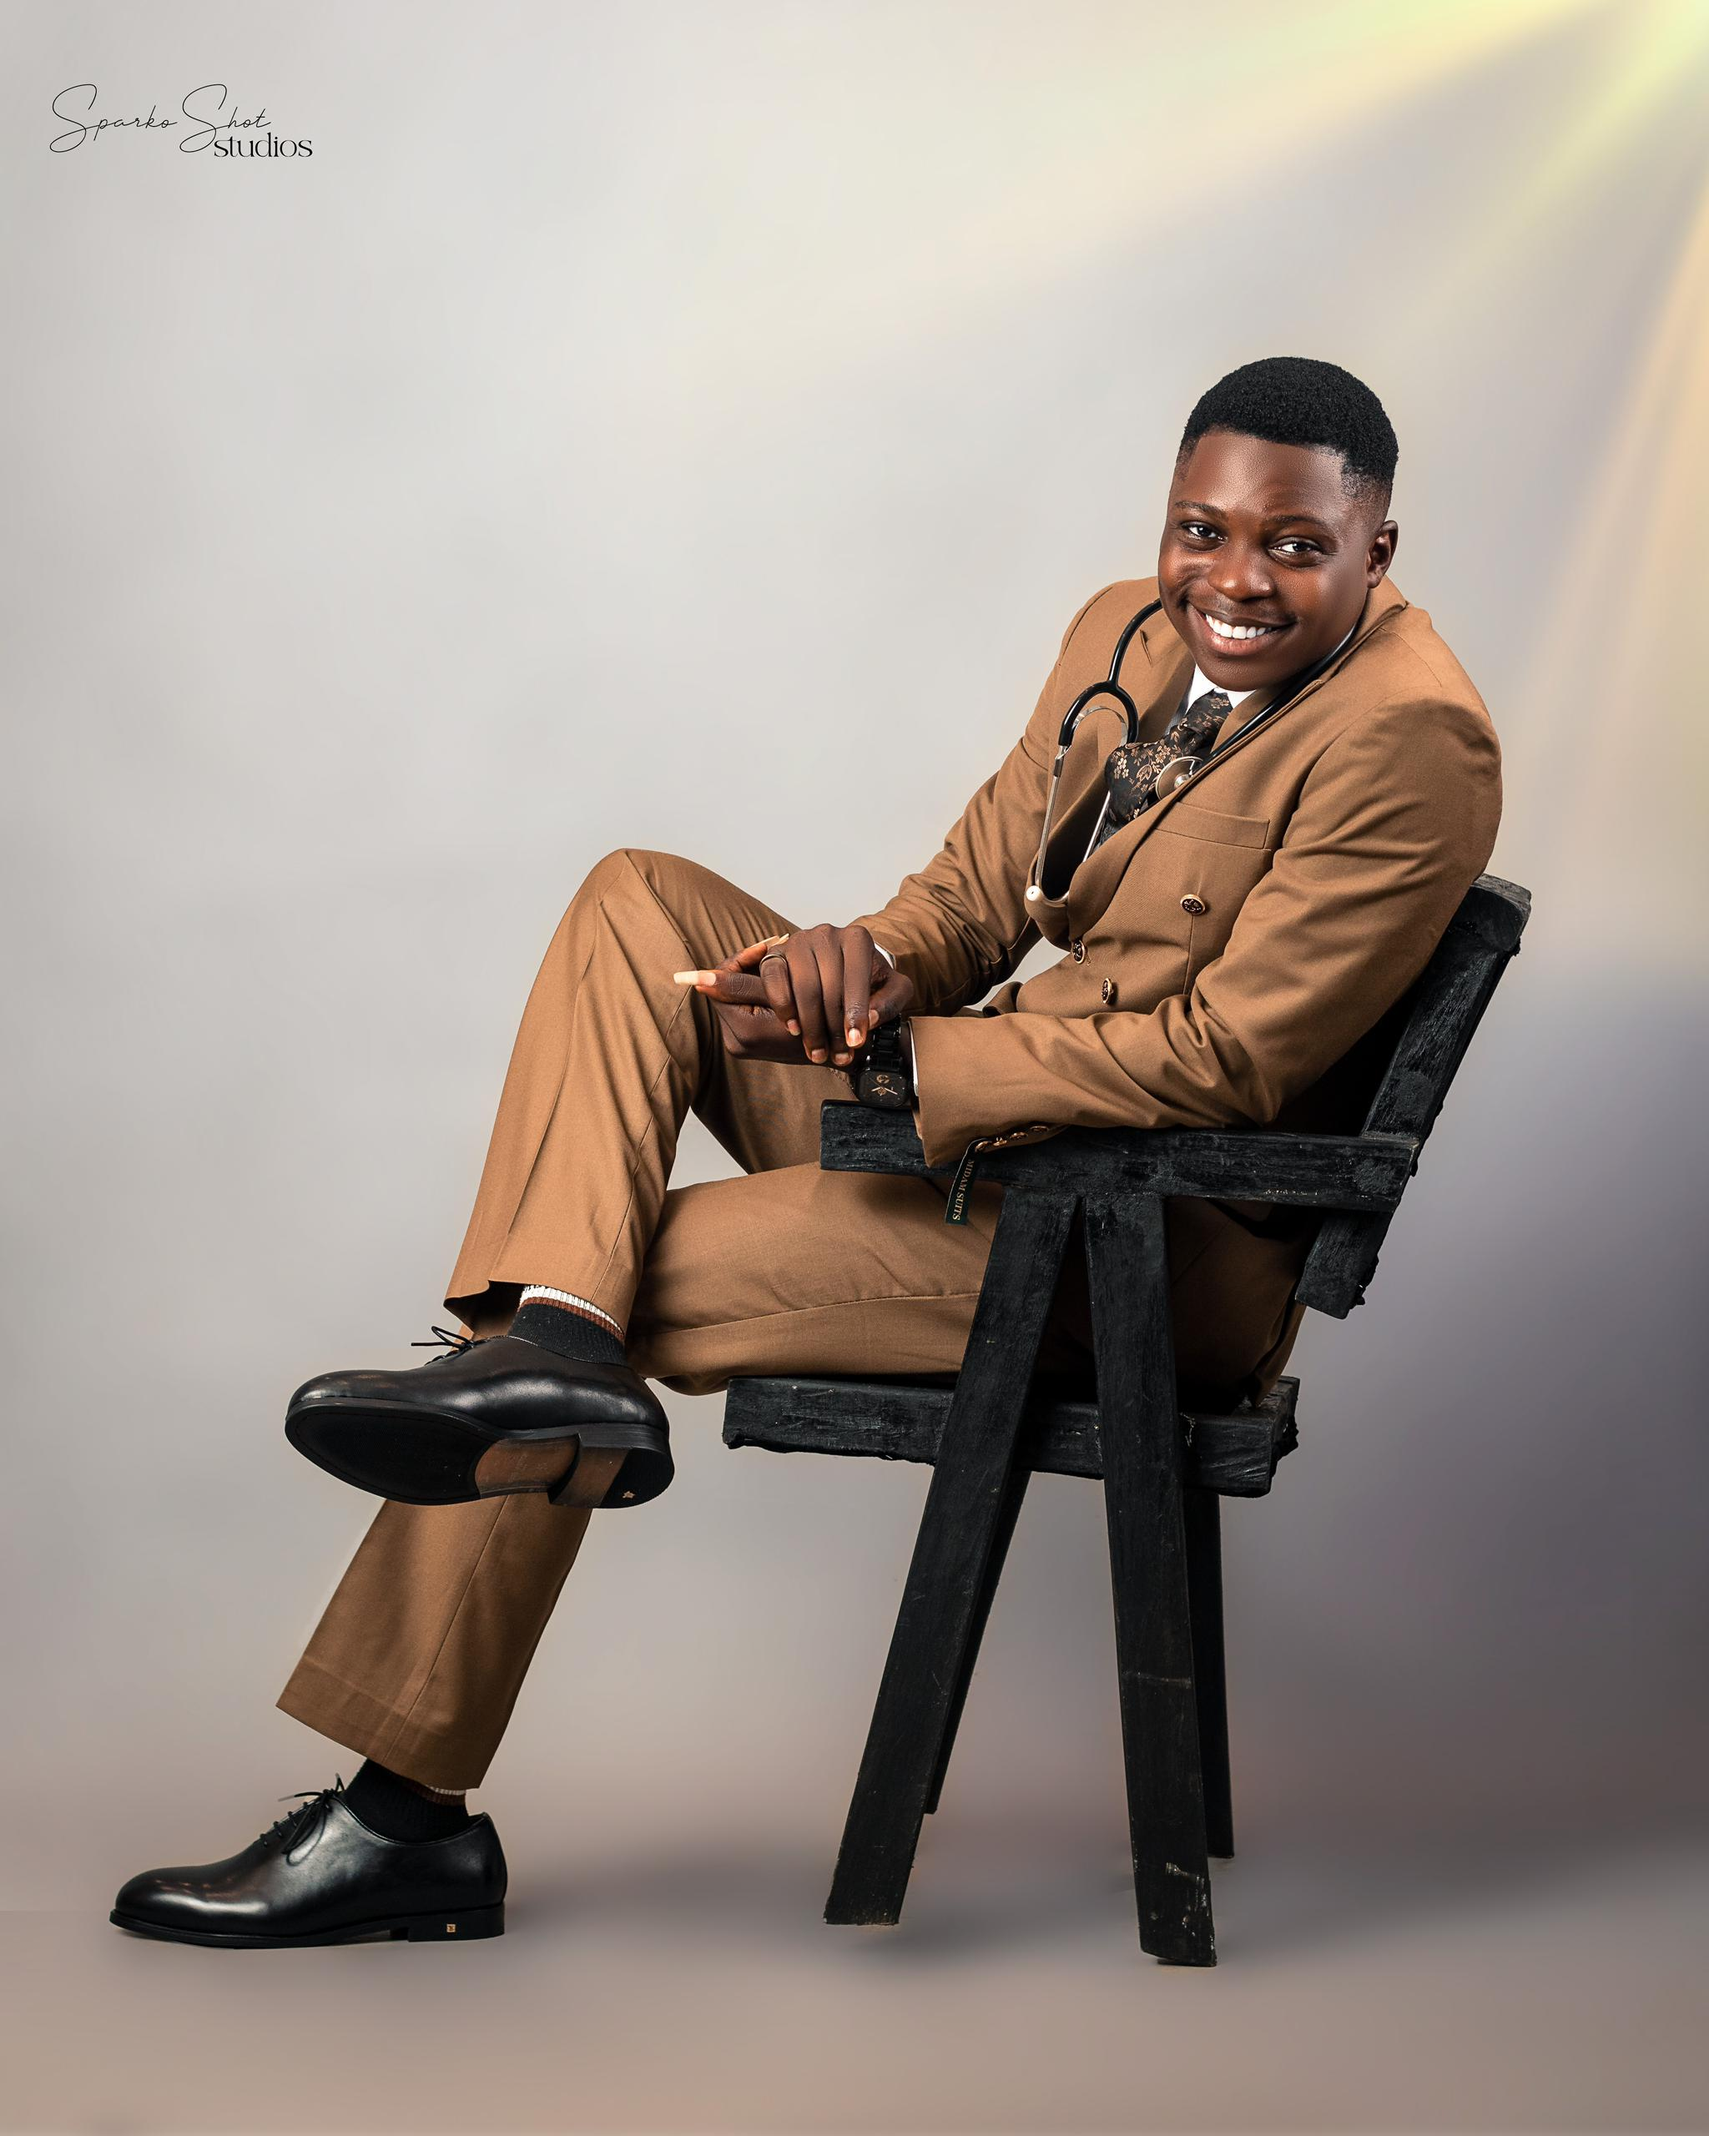
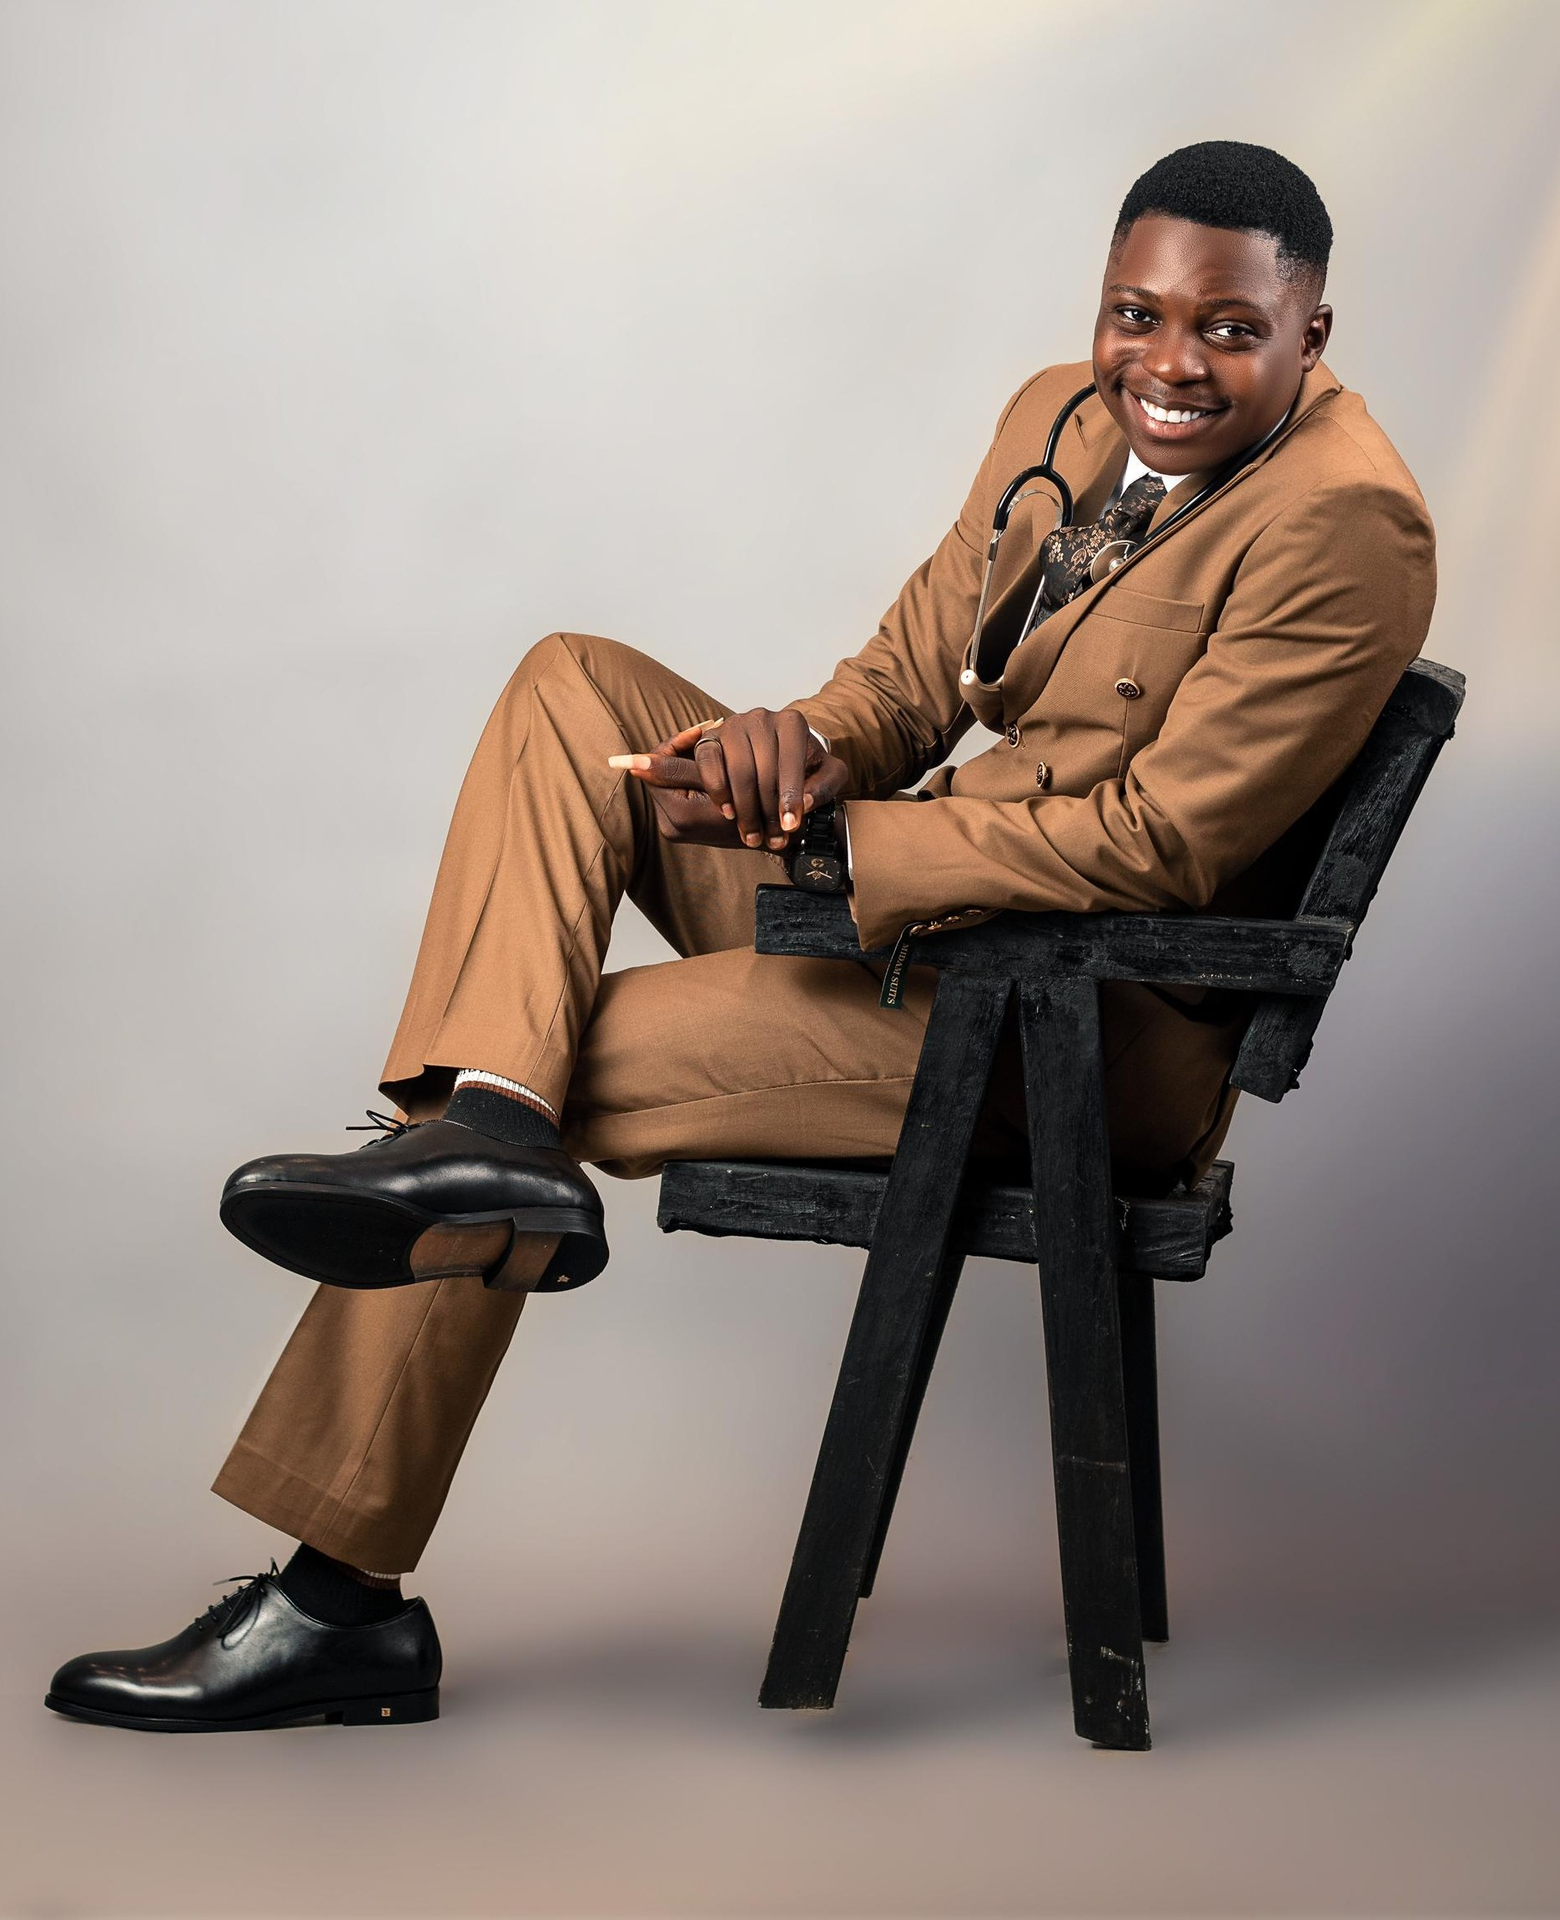
edited

diff --git a/index.html b/index.html
@@ -3,7 +3,7 @@
 <head>
   <meta charset="UTF-8" />
   <meta name="viewport" content="width=device-width, initial-scale=1.0" />
-  <title>DOUG AVEIGO - Luxury Fashion Collections</title>
+  <title>DOUG AVEIGO -Luxury Fashion Collections</title>
   <link rel="icon" href="favicon.png">
   <link rel="icon" type="image/png" sizes="32x32" href="favicon-32x32.png">
   <link rel="icon" type="image/png" sizes="16x16" href="favicon-16x16.png">
@@ -127,7 +127,7 @@
               </div>
             </article>
             <article class="product-card reveal delay-2">
-              <div class="product-img" style="background-image:url('img6.jpg')"></div>
+              <div class="product-img" style="background-image:url('img6.jpeg')"></div>
               <div class="product-meta">
                 <div>
                   <h4>Silk Column Dress</h4>

diff --git a/index.css b/index.css
@@ -688,10 +688,10 @@ section {
 .atelier-image {
   min-height: 520px;
   border: 1px solid var(--line);
-  border-radius: 30px;
+  border-radius: 25px;
   background:
     linear-gradient(180deg, rgba(8, 7, 6, 0.08), rgba(8, 7, 6, 0.42)),
-    url("img5.jpeg") center / cover;
+    url("img5.png") center / cover;
   box-shadow: var(--shadow);
 }
 
